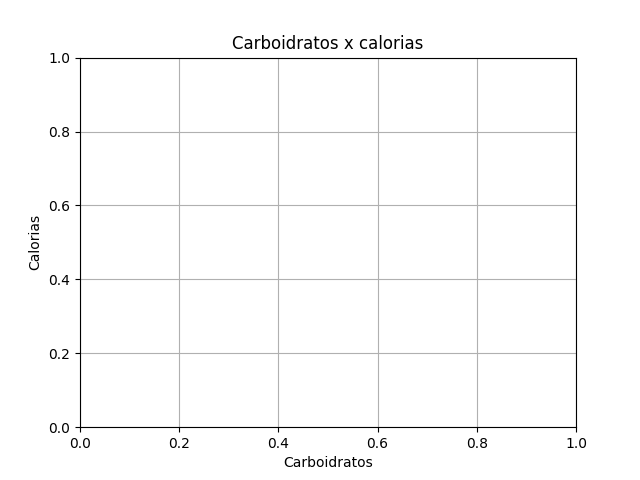
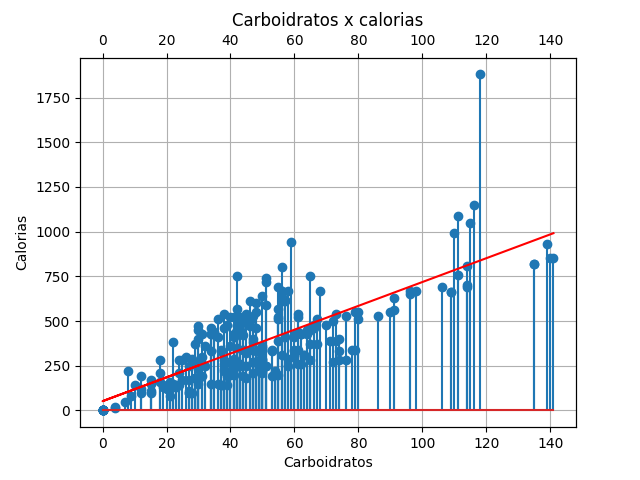
Add image

diff --git a/analise.py b/analise.py
@@ -14,11 +14,12 @@ def show_graph(y_values, x_values, x_labels):
     ax.set(xlabel='Carboidratos', ylabel='Calorias',
         title='Carboidratos x calorias')
     ax.grid()
-    fig.savefig("test.png")
+   
     plt.stem(s, t)
     ax2 = ax.twiny()
     result_reg = [forms.f(x_values[x], y_values[x], x_values, y_values) for x in range(len(x_values))]
     ax2.plot(x_values, result_reg, color='red')
+    fig.savefig("test.png")
     plt.show()
 
 

diff --git a/README.md b/README.md
@@ -1,2 +1,4 @@
 # mc_donalds_analysis
 A simple data analysis from nutritional data of McDonalds menu
+
+Follows an example:
